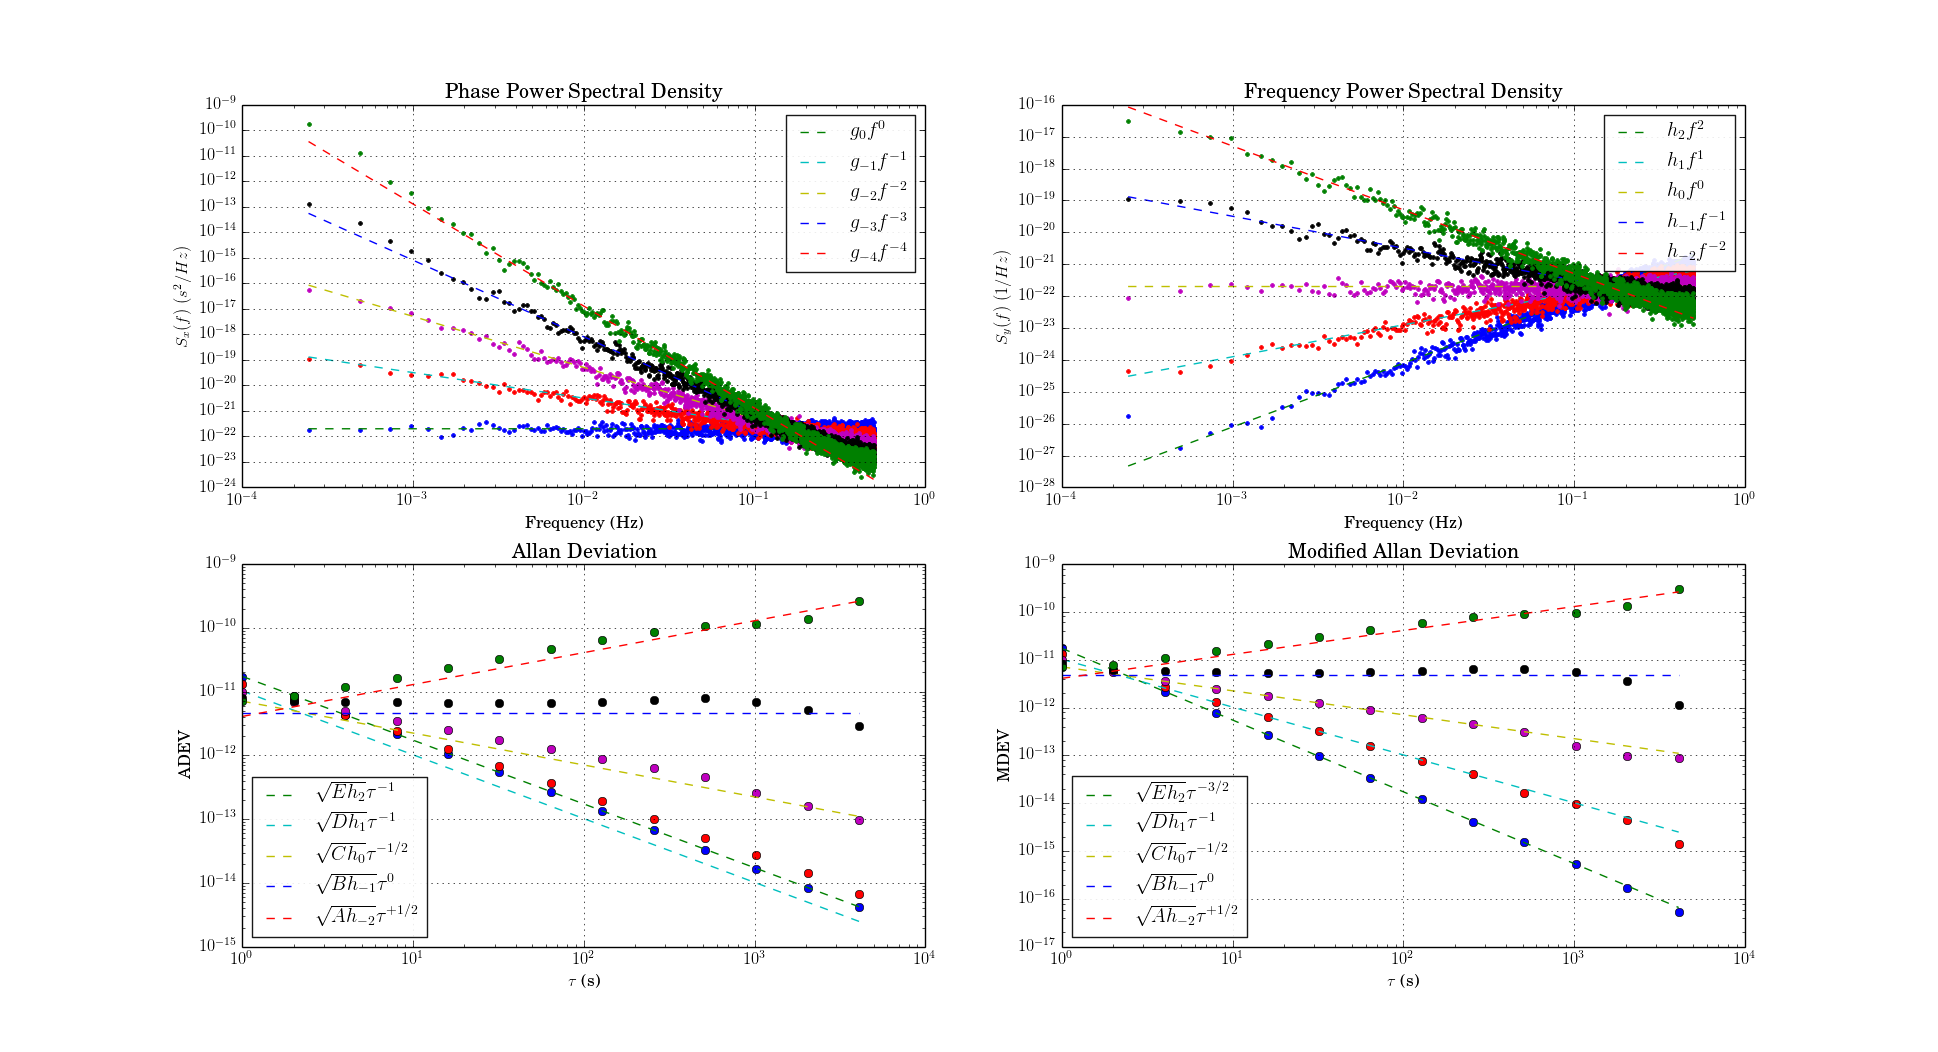
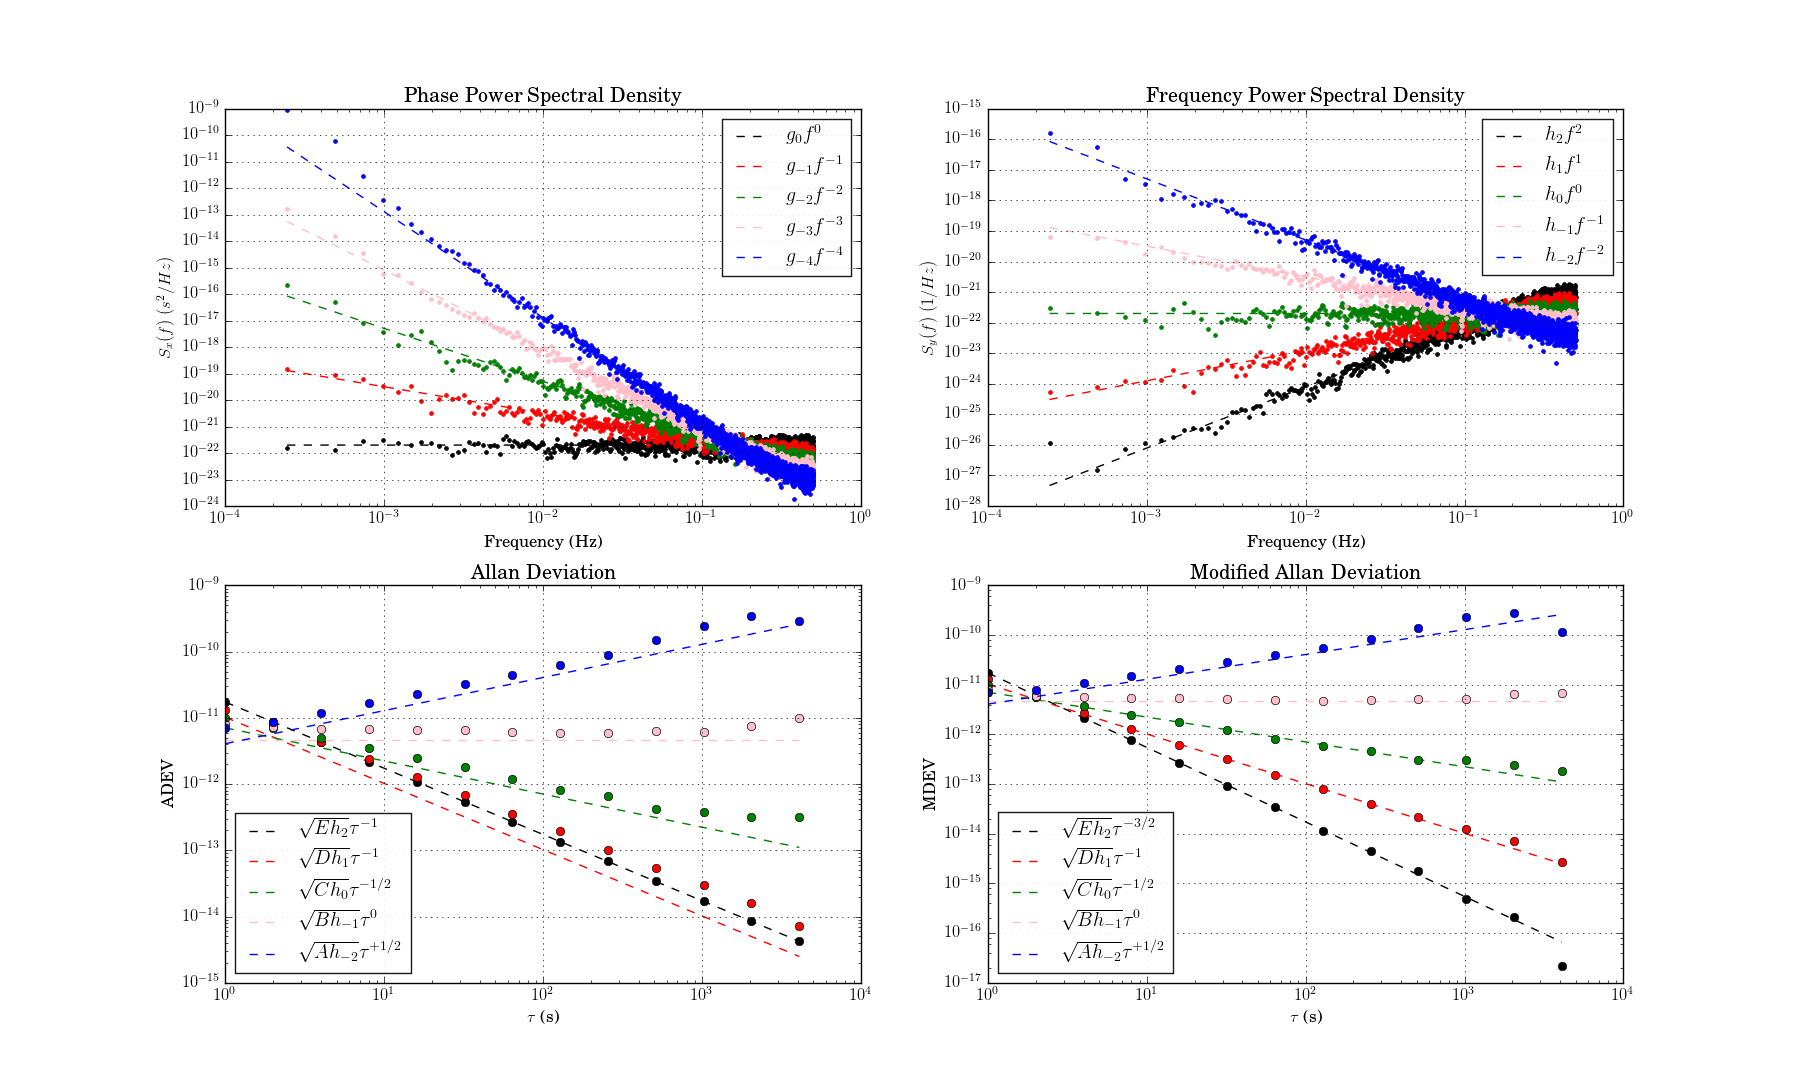
matching colors in the plots make them easier to interpret.

diff --git a/example_noise_slopes.py b/example_noise_slopes.py
@@ -92,20 +92,20 @@ def main():
     plt.figure()
     # Phase PSD figure
     plt.subplot(2,2,1)
-    plt.loglog(f0,psd0,'.')
-    plt.loglog(f0,[ g0*pow(xx, 0.0) for xx in f0],'--',label=r'$g_0f^0$')
+    plt.loglog(f0,[ g0*pow(xx, 0.0) for xx in f0],'--',label=r'$g_0f^0$', color='black')
+    plt.loglog(f0,psd0,'.', color='black')
     
-    plt.loglog(f1,psd1,'.')
-    plt.loglog(f1[1:],[ g1*pow(xx, -1.0) for xx in f1[1:]],'--',label=r'$g_{-1}f^{-1}$')
+    plt.loglog(f1[1:],[ g1*pow(xx, -1.0) for xx in f1[1:]],'--',label=r'$g_{-1}f^{-1}$', color='red')
+    plt.loglog(f1,psd1,'.' ,color='red')
     
-    plt.loglog(f2,psd2,'.')
-    plt.loglog(f2[1:],[ g2*pow(xx,-2.0) for xx in f2[1:]],'--',label=r'$g_{-2}f^{-2}$')
+    plt.loglog(f2[1:],[ g2*pow(xx,-2.0) for xx in f2[1:]],'--',label=r'$g_{-2}f^{-2}$', color='green')
+    plt.loglog(f2,psd2,'.',  color='green')
     
-    plt.loglog(f3, psd3, '.')
-    plt.loglog(f3[1:], [ g3*pow(xx,-3.0) for xx in f3[1:]],'--',label=r'$g_{-3}f^{-3}$')
+    plt.loglog(f3[1:], [ g3*pow(xx,-3.0) for xx in f3[1:]],'--',label=r'$g_{-3}f^{-3}$', color='pink')
+    plt.loglog(f3, psd3, '.', color='pink')
     
-    plt.loglog(f4, psd4, '.')
-    plt.loglog(f4[1:], [ g4*pow(xx,-4.0) for xx in f4[1:]],'--',label=r'$g_{-4}f^{-4}$')
+    plt.loglog(f4[1:], [ g4*pow(xx,-4.0) for xx in f4[1:]],'--',label=r'$g_{-4}f^{-4}$', color='blue')
+    plt.loglog(f4, psd4, '.', color='blue')
     plt.grid()
     plt.legend(framealpha=0.9)
     plt.title(r'Phase Power Spectral Density')
@@ -114,20 +114,20 @@ def main():
     
     # frequency PSD figure
     plt.subplot(2,2,2)
-    plt.loglog(ff0,fpsd0,'.')
-    plt.loglog(ff0[1:], [ a0*pow(xx,2) for xx in ff0[1:]],'--',label=r'$h_{2}f^{2}$')
+    plt.loglog(ff0[1:], [ a0*pow(xx,2) for xx in ff0[1:]],'--',label=r'$h_{2}f^{2}$', color='black')
+    plt.loglog(ff0,fpsd0,'.',  color='black')
     
-    plt.loglog(ff1,fpsd1,'.')
-    plt.loglog(ff1[1:], [ a1*pow(xx,1) for xx in ff1[1:]],'--',label=r'$h_{1}f^{1}$')
+    plt.loglog(ff1[1:], [ a1*pow(xx,1) for xx in ff1[1:]],'--',label=r'$h_{1}f^{1}$', color='red')
+    plt.loglog(ff1,fpsd1,'.',  color='red')
 
-    plt.loglog(ff2,fpsd2,'.')
-    plt.loglog(ff2[1:], [ a2*pow(xx,0) for xx in ff2[1:]],'--',label=r'$h_{0}f^{0}$')
+    plt.loglog(ff2[1:], [ a2*pow(xx,0) for xx in ff2[1:]],'--',label=r'$h_{0}f^{0}$', color='green')
+    plt.loglog(ff2,fpsd2,'.', color='green')
     
-    plt.loglog(ff3,fpsd3,'.')
-    plt.loglog(ff3[1:], [ a3*pow(xx,-1) for xx in ff3[1:]],'--',label=r'$h_{-1}f^{-1}$')
+    plt.loglog(ff3[1:], [ a3*pow(xx,-1) for xx in ff3[1:]],'--',label=r'$h_{-1}f^{-1}$', color='pink')
+    plt.loglog(ff3,fpsd3,'.', color='pink')
 
-    plt.loglog(ff4,fpsd4,'.')
-    plt.loglog(ff4[1:], [ a4*pow(xx,-2) for xx in ff4[1:]],'--',label=r'$h_{-2}f^{-2}$')
+    plt.loglog(ff4[1:], [ a4*pow(xx,-2) for xx in ff4[1:]],'--',label=r'$h_{-2}f^{-2}$', color='blue')
+    plt.loglog(ff4,fpsd4,'.', color='blue')
     plt.grid()
     plt.legend(framealpha=0.9)
     plt.title(r'Frequency Power Spectral Density')
@@ -137,20 +137,20 @@ def main():
     # ADEV figure
     plt.subplot(2,2,3)
 
-    plt.loglog(t0,d0,'o')
-    plt.loglog(t0, [ cn.adev_from_qd(qd0, 0, tau0)/xx for xx in t0],'--', label=r'$\sqrt{Eh_{2}}\tau^{-1}$')
+    plt.loglog(t0, [ cn.adev_from_qd(qd0, 0, tau0)/xx for xx in t0],'--', label=r'$\sqrt{Eh_{2}}\tau^{-1}$', color='black')
+    plt.loglog(t0,d0,'o', color='black')
 
-    plt.loglog(t1,d1,'o')
-    plt.loglog(t1, [ cn.adev_from_qd(qd1, -1, tau0)/xx for xx in t1],'--', label=r'$\sqrt{Dh_{1}}\tau^{-1}$')
+    plt.loglog(t1, [ cn.adev_from_qd(qd1, -1, tau0)/xx for xx in t1],'--', label=r'$\sqrt{Dh_{1}}\tau^{-1}$', color='red')
+    plt.loglog(t1,d1,'o', color='red')
 
-    plt.loglog(t2,d2,'o')
-    plt.loglog(t2, [ cn.adev_from_qd(qd2, -2, tau0)/math.sqrt(xx) for xx in t2],'--', label=r'$\sqrt{Ch_{0}}\tau^{-1/2}$')
+    plt.loglog(t2, [ cn.adev_from_qd(qd2, -2, tau0)/math.sqrt(xx) for xx in t2],'--', label=r'$\sqrt{Ch_{0}}\tau^{-1/2}$', color='green')
+    plt.loglog(t2,d2,'o', color='green')
 
-    plt.loglog(t3,d3,'o')
-    plt.loglog(t3, [ cn.adev_from_qd(qd3, -3, tau0)*1 for xx in t2],'--', label=r'$\sqrt{Bh_{-1}}\tau^0$')
+    plt.loglog(t3, [ cn.adev_from_qd(qd3, -3, tau0)*1 for xx in t3],'--', label=r'$\sqrt{Bh_{-1}}\tau^0$', color='pink')
+    plt.loglog(t3,d3,'o', color='pink')
 
-    plt.loglog(t4,d4,'o')
-    plt.loglog(t4, [ cn.adev_from_qd(qd4, -4, tau0)*math.sqrt(xx) for xx in t2],'--', label=r'$\sqrt{Ah_{-2}}\tau^{+1/2}$')
+    plt.loglog(t4, [ cn.adev_from_qd(qd4, -4, tau0)*math.sqrt(xx) for xx in t4],'--', label=r'$\sqrt{Ah_{-2}}\tau^{+1/2}$', color='blue')
+    plt.loglog(t4,d4,'o', color='blue')
 
     plt.legend(framealpha=0.9, loc='lower left')
     plt.grid()
@@ -160,20 +160,21 @@ def main():
     
     # MDEV
     plt.subplot(2, 2, 4)
-    plt.loglog(mt0,md0,'o')
-    plt.loglog(t0, [ cn.adev_from_qd(qd0, 0, tau0)/pow(xx,3.0/2.0) for xx in t0],'--', label=r'$\sqrt{Eh_{2}}\tau^{-3/2}$')
 
-    plt.loglog(mt1,md1,'o')
-    plt.loglog(t1, [ cn.adev_from_qd(qd1, -1, tau0)/xx for xx in t1],'--', label=r'$\sqrt{Dh_{1}}\tau^{-1}$')
+    plt.loglog(t0, [ cn.adev_from_qd(qd0, 0, tau0)/pow(xx,3.0/2.0) for xx in t0],'--', label=r'$\sqrt{Eh_{2}}\tau^{-3/2}$', color='black')
+    plt.loglog(mt0,md0,'o', color='black')
 
-    plt.loglog(mt2,md2,'o')
-    plt.loglog(t2, [ cn.adev_from_qd(qd2, -2, tau0)/math.sqrt(xx) for xx in t2],'--', label=r'$\sqrt{Ch_{0}}\tau^{-1/2}$')
+    plt.loglog(t1, [ cn.adev_from_qd(qd1, -1, tau0)/xx for xx in t1],'--', label=r'$\sqrt{Dh_{1}}\tau^{-1}$', color='red')
+    plt.loglog(mt1,md1,'o', color='red')
 
-    plt.loglog(mt3,md3,'o')
-    plt.loglog(t3, [ cn.adev_from_qd(qd3, -3, tau0)**1 for xx in t2],'--', label=r'$\sqrt{Bh_{-1}}\tau^0$')
+    plt.loglog(t2, [ cn.adev_from_qd(qd2, -2, tau0)/math.sqrt(xx) for xx in t2],'--', label=r'$\sqrt{Ch_{0}}\tau^{-1/2}$', color='green')
+    plt.loglog(mt2,md2,'o', color='green')
 
-    plt.loglog(mt4,md4,'o')
-    plt.loglog(t4, [ cn.adev_from_qd(qd4, -4, tau0)*math.sqrt(xx) for xx in t2],'--', label=r'$\sqrt{Ah_{-2}}\tau^{+1/2}$')
+    plt.loglog(t3, [ cn.adev_from_qd(qd3, -3, tau0)**1 for xx in t3],'--', label=r'$\sqrt{Bh_{-1}}\tau^0$', color='pink')
+    plt.loglog(mt3,md3,'o', color='pink')
+
+    plt.loglog(t4, [ cn.adev_from_qd(qd4, -4, tau0)*math.sqrt(xx) for xx in t4],'--', label=r'$\sqrt{Ah_{-2}}\tau^{+1/2}$', color='blue')
+    plt.loglog(mt4,md4,'o', color='blue')
 
     plt.legend(framealpha=0.9, loc='lower left')
     plt.grid()
